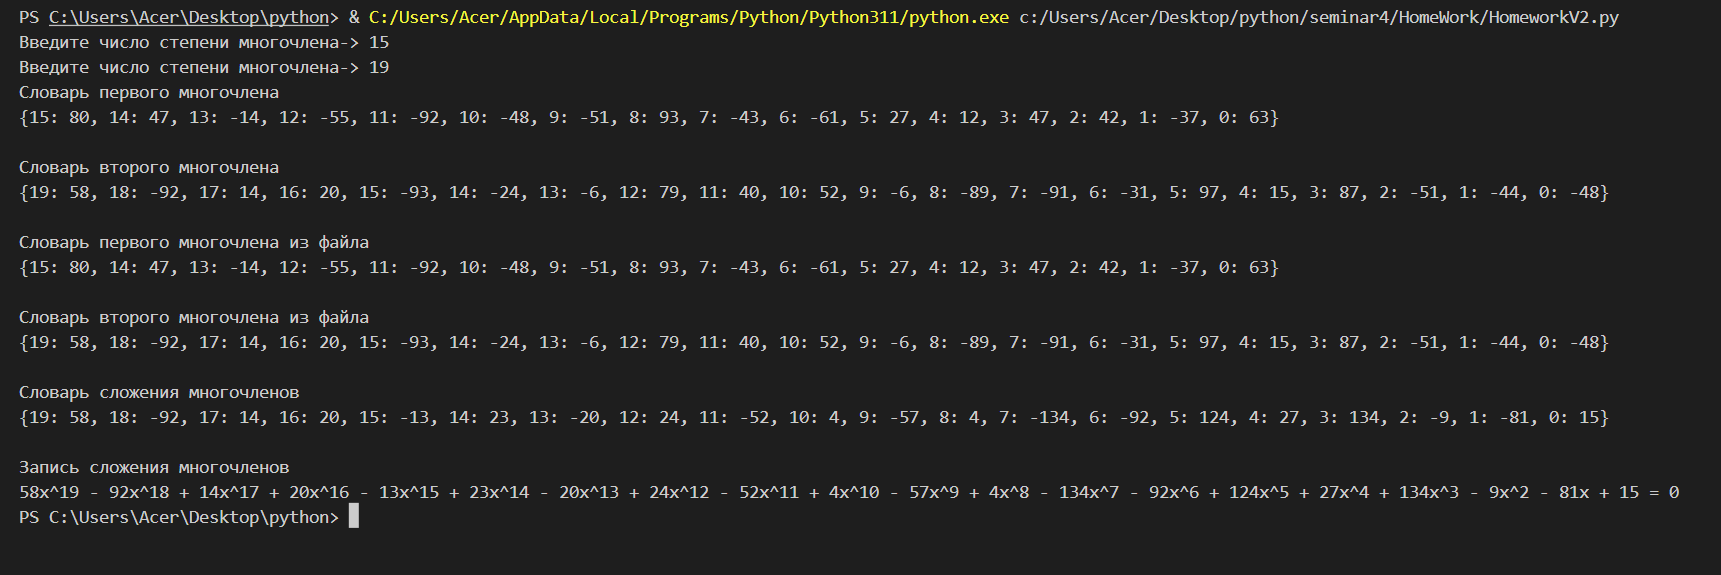
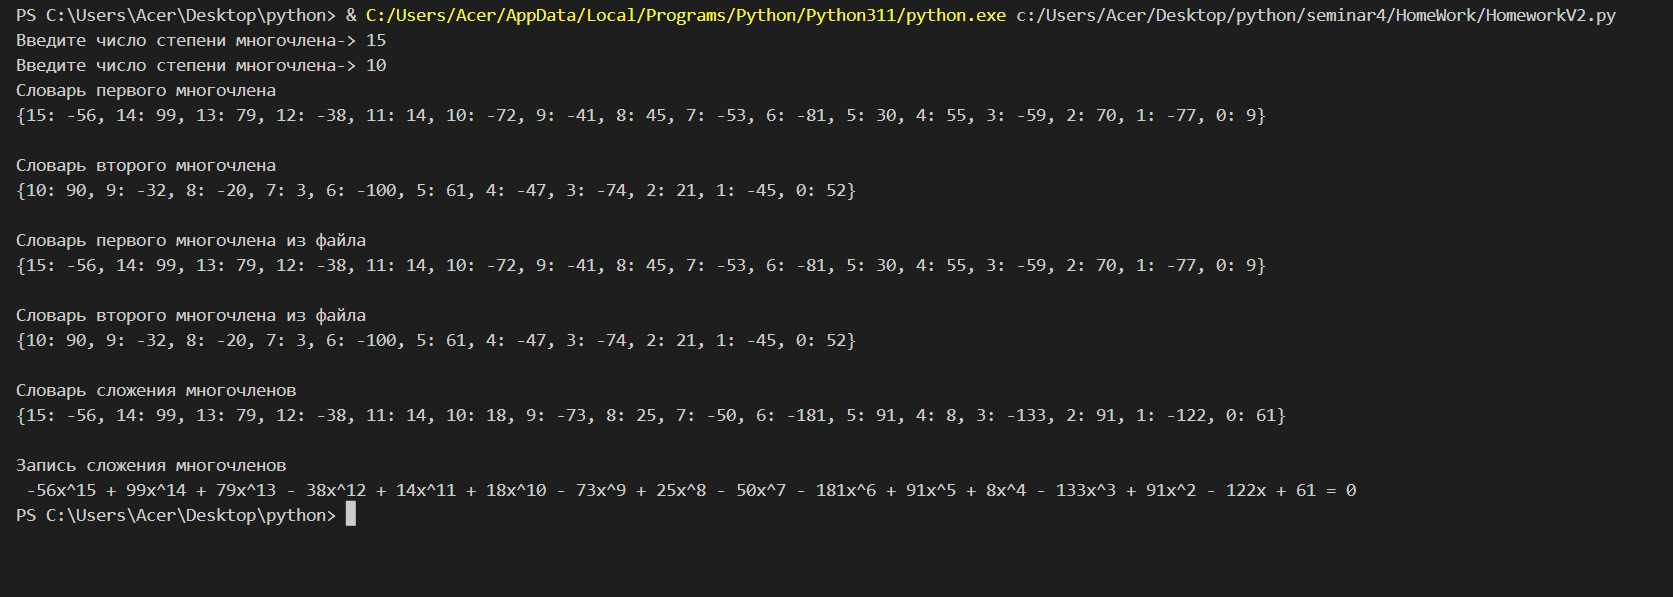
Дз доработка

diff --git a/seminar4/HomeWork/HomeworkV2.py b/seminar4/HomeWork/HomeworkV2.py
@@ -11,62 +11,51 @@ def RandomPolynomial():
         dictionary = {}
         k = int(input('Введите число степени многочлена-> '))
         for i in range(k, -1, -1):
-            dictionary[i] = randint(-100,100)
+            dictionary[i] = randint(-100, 100)
         return dictionary  
 
 # Словарь пишем в строку для красивого оформления многочленов 
 def StringBeautiful(dictionary: dict):
-    my_str = ''
-    count = len(dictionary) - 1
-    step = len(dictionary) - 1
-    proverka = True
+    my_str = ' '
+    keys = dictionary.keys()
+    max = 0
+    for i in keys: 
+        if i > max:
+            max = i 
+    if dictionary.get(max, 0) < 0:
+        my_str = ' -'
 
-    while proverka:
-        if dictionary[step] == 0:
-            step -= 1
-        elif dictionary[step] != 0:
-            proverka = False
-
-    for k,v in dictionary.items(): 
-        if count == len(dictionary) - 1 and v < 0: 
-            my_str += ' -'
-
-        if k == 1:
-            if v == 0: 
-                my_str += ''
-            elif v == 1:
-                 my_str += 'x'
-            else:
-                my_str += f'{abs(v)}x' 
-        elif k == 0:
-            if v == 0: 
-                my_str += ''
-            else:
-                my_str += f'{abs(v)}'            
-        elif v == 0: 
+    for step in range(max,-1, -1):
+        znachenie = dictionary.get(step, 0)
+        if znachenie == 0:
             my_str += ''
-        elif v == 1: 
-            my_str += f'x^{k}'
         else: 
-            my_str += f'{abs(v)}x^{k}'
-
-        if count > 0 and count <= step:
-            if dictionary[count - 1] == 0:
-                my_str += ''
-            elif dictionary[count - 1] > 0:
+            if step == 0: 
+                my_str += f'{abs(znachenie)}'
+            elif step == 1:
+                if abs(znachenie) == 1:
+                    my_str += 'x'
+                else:
+                    my_str += f'{abs(znachenie)}x'
+            else:
+                if abs(znachenie) == 1:
+                    my_str += f'x^{step}'
+                else:
+                    my_str += f'{abs(znachenie)}x^{step}'
+        if step != 0 and dictionary.get(step - 1) != 0:
+            if dictionary.get(step - 1, 0) > 0:
                 my_str += ' + '
-            elif dictionary[count - 1] < 0:
+            elif dictionary.get(step - 1, 0) < 0:
                 my_str += ' - '
-
-        count -= 1
     my_str += f' = 0'
-    return my_str   
+    return my_str
+
 
 # Строку с примерами многочленов делаем в список удаляя лишние знаки
 def ReplacePolynomial(data):
     for line in data:
         stroka = line
-    yravnenieOne = stroka.replace(' ','').replace('=0','').replace('+',' ').replace('-',' -').replace('x^',' .')
+    yravnenieOne = stroka.replace('-x','-1').replace('- x','-1').replace(' x','1').replace(' ','').replace('=0','').replace('+',' ').replace('-',' -').replace('x^',' .').replace('^',' .')
     my_list = yravnenieOne.split()
     data.close() 
     return my_list        
@@ -85,45 +74,47 @@ def ListvSlovar(my_list: list):
     num = ''
     peremennay = 0
     one = 0
-    zero = 0
     count = 0
     for i in my_list:
-        for j in i: 
-            if j == '.':
-                tochka = 1
+        if i == 'x':
+            polynomialOnev1[count] = polynomialOnev1.get(count, 0) + 1 
+        else:
+            for j in i: 
+                if j == '.':
+                    tochka = 1
+                elif tochka == 1:
+                    num += str(j)
+                elif j == 'x':
+                    one = 1
+            
+            if  one == 1:
+                peremennay = i.replace('x', '')
+                polynomialOnev1[1] = polynomialOnev1.get(1, 0) + int(peremennay)
+                one = 0
+            if count == len(my_list)-1 and tochka != 1:
+                peremennay = i
+                polynomialOnev1[0] = polynomialOnev1.get(0, 0) + int(peremennay)
+            if tochka == 0: 
+                peremennay = i
             elif tochka == 1:
-                num += str(j)
-            elif j == 'x':
-                one = 1
-
-        if tochka == 0: 
-            peremennay = i
-        elif tochka == 1:
-            polynomialOnev1[int(num)] = polynomialOnev1.get(int(num), 0) + int(peremennay)
-            num = ''
-            tochka = 0
-        if  one == 1:
-            peremennay = i.replace('x', '')
-            polynomialOnev1[1] = polynomialOnev1.get(1, 0) + int(peremennay)
-            one = 0
-        if count == len(my_list)-1:
-            peremennay = i
-            polynomialOnev1[0] = polynomialOnev1.get(0, 0) + int(peremennay)
+                polynomialOnev1[int(num)] = polynomialOnev1.get(int(num), 0) + int(peremennay)
+                num = ''
+                tochka = 0
         count += 1
     return polynomialOnev1
 
 
-data = open(r'C:\Users\Acer\Desktop\python\seminar4\HomeWork\polynomialOne.txt', 'w')
+data = open(r'C:\Users\Acer\Desktop\python_dopolnitelnoe_zadanie\polynomialOne.txt', 'w')
 polynomialOne = OpenAndWriteFile(data)
-data = open(r'C:\Users\Acer\Desktop\python\seminar4\HomeWork\polynomialTwo.txt', 'w')
+data = open(r'C:\Users\Acer\Desktop\python_dopolnitelnoe_zadanie\polynomialTwo.txt', 'w')
 polynomialTwo = OpenAndWriteFile(data)
 # Печать словарей которые мы записали в файлы
 print(f'Словарь первого многочлена \n{polynomialOne}\n')
 print(f'Словарь второго многочлена \n{polynomialTwo}\n')
 
-data = open(r'C:\Users\Acer\Desktop\python\seminar4\HomeWork\polynomialOne.txt', 'r')
+data = open(r'C:\Users\Acer\Desktop\python_dopolnitelnoe_zadanie\polynomialOne.txt', 'r')
 my_list = ReplacePolynomial(data)
-data = open(r'C:\Users\Acer\Desktop\python\seminar4\HomeWork\polynomialTwo.txt', 'r')
+data = open(r'C:\Users\Acer\Desktop\python_dopolnitelnoe_zadanie\polynomialTwo.txt', 'r')
 my_listTwo = ReplacePolynomial(data)
 
 polynomialOnev2 = ListvSlovar(my_list)
@@ -133,14 +124,21 @@ print(f'Словарь первого многочлена из файла \n{po
 print(f'Словарь второго многочлена из файла \n{polynomialTwov2}\n')
 
 polynomialThree = {}
-if len(polynomialOnev2) >= len(polynomialTwov2): 
-    for i in polynomialOnev2: 
-        polynomialThree[i] = polynomialOnev2.get(i, 0) + polynomialTwov2.get(i, 0)
-else:
-    for i in polynomialTwov2: 
-        polynomialThree[i] = polynomialOnev2.get(i, 0) + polynomialTwov2.get(i, 0)
+keysOne = polynomialOnev2.keys()
+max = 0
+for i in keysOne: 
+    if i > max:
+        max = i 
+keysTwo = polynomialTwov2.keys()
+for i in keysTwo: 
+    if i > max:
+        max = i
+
+for step in range(max, -1, -1):
+    polynomialThree[step] = polynomialOnev2.get(step, 0) + polynomialTwov2.get(step, 0)
+
 print(f'Словарь сложения многочленов\n{polynomialThree}\n')
 print(f'Запись сложения многочленов\n{StringBeautiful(polynomialThree)}')
-data = open(r'C:\Users\Acer\Desktop\python\seminar4\HomeWork\polynomialThree.txt', 'w')
+data = open(r'C:\Users\Acer\Desktop\python_dopolnitelnoe_zadanie\polynomialThree.txt', 'w')
 data.write(StringBeautiful(polynomialThree))
 data.close() 

diff --git a/seminar_3/HomeWorkSeminar3/seminar3_3HW.py b/seminar_3/HomeWorkSeminar3/seminar3_3HW.py
@@ -19,37 +19,37 @@
 # Ф, Щ, Ъ – 10 очков.
 
 # Напишите программу, которая вычисляет стоимость введенного пользователем слова.
-# Будем считать, что на вход подается только одно слово, которое содержит либо только английские, либо только русские буквы.
+# Будем считать, что на вход подается только одно слово, которое
+# содержит либо только английские, либо только русские буквы.
 
 # Ввод: ноутбук
 # Вывод: 12
 
 dictionary = \
     {
-"A": 1, "E": 1, "I": 1, "O": 1, "U": 1, "L": 1, "N": 1, "S": 1, "T": 1, "R": 1,
-"D": 2, "G": 2,
-"B": 3, "C": 3, "M": 3, "P": 3,
-"F": 4, "H": 4, "V": 4, "W": 4, "y": 4,
-"K": 5,
-"J": 8, "X": 8,
-"Q": 10,"Z": 10,
-" ": 0, "1": 0, "2": 0, "3": 0, "4": 0, "5": 0, "6": 0, "7": 0, "8": 0, "9": 0, 
-"0": 0, ",": 0, ".": 0, "!": 0, "?": 0, "-": 0, 
-"А": 1, "В": 1, "Е": 1, "И": 1, "Н": 1, "О": 1, "Р": 1, "С": 1, "Т": 1,
-"Д": 2, "К": 2, "Л": 2, "М": 2, "П": 2, "У": 2,
-"Б": 3, "Г": 3, "Ё": 3, "Ь": 3, "Я": 3,
-"Й": 4, "Ы": 4, 
-"Ж": 5, "З": 5, "Х": 5, "Ц": 5, "Ч": 5,
-"Ш": 8, "Э": 8, "Ю": 8,
-"Ф": 10, "Щ": 10, "Ъ": 10,
+        "A": 1, "E": 1, "I": 1, "O": 1, "U": 1, "L": 1, "N": 1, "S": 1, "T": 1, "R": 1,
+        "D": 2, "G": 2,
+        "B": 3, "C": 3, "M": 3, "P": 3,
+        "F": 4, "H": 4, "V": 4, "W": 4, "y": 4,
+        "K": 5,
+        "J": 8, "X": 8,
+        "Q": 10, "Z": 10,
+        " ": 0, "1": 0, "2": 0, "3": 0, "4": 0, "5": 0, "6": 0, "7": 0, "8": 0, "9": 0,
+        "0": 0, ",": 0, ".": 0, "!": 0, "?": 0, "-": 0,
+        "А": 1, "В": 1, "Е": 1, "И": 1, "Н": 1, "О": 1, "Р": 1, "С": 1, "Т": 1,
+        "Д": 2, "К": 2, "Л": 2, "М": 2, "П": 2, "У": 2,
+        "Б": 3, "Г": 3, "Ё": 3, "Ь": 3, "Я": 3,
+        "Й": 4, "Ы": 4,
+        "Ж": 5, "З": 5, "Х": 5, "Ц": 5, "Ч": 5,
+        "Ш": 8, "Э": 8, "Ю": 8,
+        "Ф": 10, "Щ": 10, "Ъ": 10,
     }
 
-alphabetRu = {"а","б","в","г","д","е","ё","ж","з","и","й","к","л","м","н","о",
-            "п","р","с","т","у","ф","х","ц","ч","ш","щ","ъ","ы","ь","э","ю","я"}
+alphabetRu = {"а", "б", "в", "г", "д", "е", "ё", "ж", "з", "и", "й", "к", "л", "м", "н", "о",
+              "п", "р", "с", "т", "у", "ф", "х", "ц", "ч", "ш", "щ", "ъ", "ы", "ь", "э", "ю", "я"}
 
 alphabetEn = {'a', 'b', 'c', 'd', 'e', 'f', 'g', 'h', 'i', 'j', 'k', 'l', 'm', 'n',
-             'o', 'p', 'q', 'r', 's', 't', 'u', 'v', 'w', 'x', 'y', 'z'}
-
+              'o', 'p', 'q', 'r', 's', 't', 'u', 'v', 'w', 'x', 'y', 'z'}
 
 word = str(input('Введите слово для проверки очков в Скрабл ')).upper()
 En = (bool(alphabetEn.intersection(set(word.lower()))))
@@ -59,6 +59,6 @@ if En == Ru:
 else:
     my_list = list(word)
     summa = 0
-    for i in my_list: 
+    for i in my_list:
         summa = summa + dictionary[i]
     print(f'В Скрабл слово {word} наберет {summa}')

diff --git a/seminar_2/seminar_2hw.py b/seminar_2/seminar_2hw.py
@@ -44,5 +44,5 @@ def TreeTask():
 
 
 # OneTask()
-# TwoTask()
+TwoTask()
 # TreeTask()
